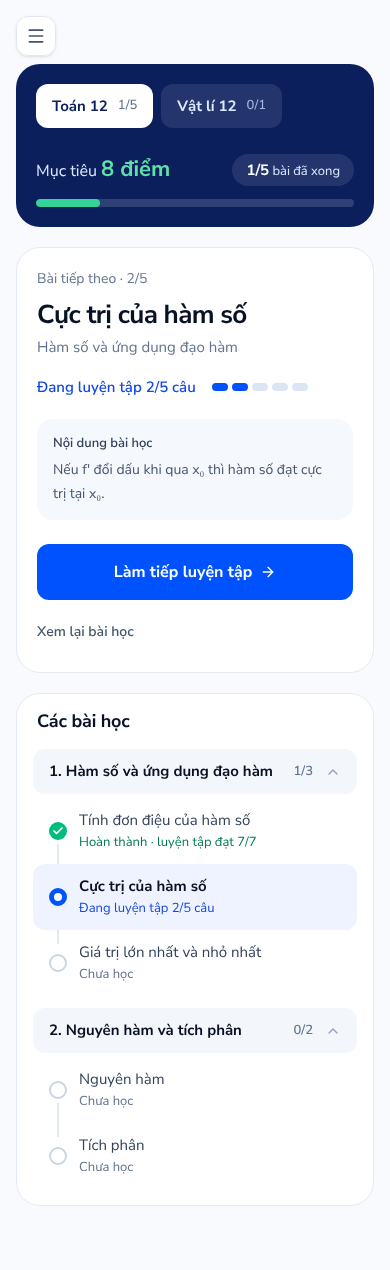
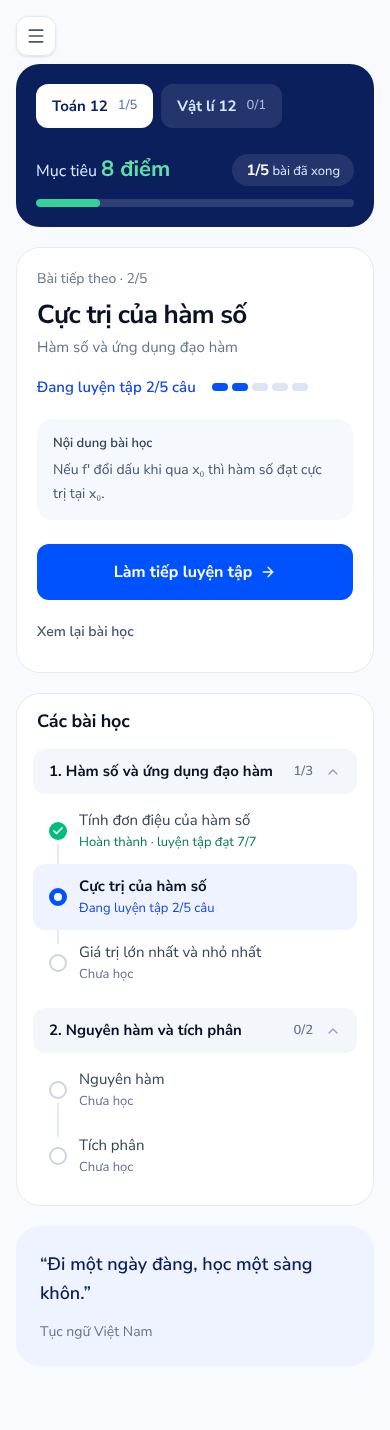
Roadmap: level columns and add a daily quote
The next-lesson column now ends level with the lesson list: a quote of
the day fills the rest of it. On phones the quote sits at the end.

Claude-Session: https://claude.ai/code/session_0183PJ8LAwyvZoofH1NCFUep

diff --git a/features/roadmap/components/student-roadmap.tsx b/features/roadmap/components/student-roadmap.tsx
@@ -112,11 +112,15 @@ export function StudentRoadmap({
           Chưa tải được kết quả luyện tập. Bước tiếp theo đang dựa trên phần em đã đọc.
         </p>
       )}
-      <div className="mt-5 grid items-start gap-5 lg:grid-cols-[minmax(0,1.1fr)_minmax(0,1fr)]">
-        <div className="lg:sticky lg:top-6">
+      {/* Side by side the two columns end level: the quote takes up what the lesson list leaves. */}
+      <div className="mt-5 grid gap-5 lg:grid-cols-[minmax(0,1.1fr)_minmax(0,1fr)] lg:grid-rows-[auto_1fr]">
+        <div className="lg:col-start-1 lg:row-start-1">
           <NextStepCard step={step} scope={scope} standings={standings} />
         </div>
-        <LessonList scope={scope} standings={standings} nextLessonId={step?.lesson.id ?? null} />
+        <div className="lg:col-start-2 lg:row-span-2 lg:row-start-1">
+          <LessonList scope={scope} standings={standings} nextLessonId={step?.lesson.id ?? null} />
+        </div>
+        <DailyQuote className="lg:col-start-1 lg:row-start-2" />
       </div>
     </Page>
   );
@@ -356,6 +360,48 @@ function statusTone(tone: string) {
 
 // ─── Every lesson ────────────────────────────────────────────────────────────
 
+const QUOTES = [
+  { text: 'Không có việc gì khó, chỉ sợ lòng không bền.', by: 'Hồ Chí Minh' },
+  { text: 'Có công mài sắt, có ngày nên kim.', by: 'Tục ngữ Việt Nam' },
+  {
+    text: 'Thiên tài là một phần trăm cảm hứng và chín mươi chín phần trăm mồ hôi.',
+    by: 'Thomas Edison',
+  },
+  { text: 'Học, học nữa, học mãi.', by: 'V. I. Lenin' },
+  { text: 'Đi một ngày đàng, học một sàng khôn.', by: 'Tục ngữ Việt Nam' },
+  {
+    text: 'Thành công không phải là điểm cuối, thất bại không phải là dấu chấm hết: điều quan trọng là can đảm để tiếp tục.',
+    by: 'Winston Churchill',
+  },
+];
+
+/** One quote a day, the same for everyone on that day in Vietnam. */
+function quoteOfTheDay() {
+  const day = new Intl.DateTimeFormat('en-CA', { timeZone: 'Asia/Ho_Chi_Minh' }).format(new Date());
+  const n = Math.floor(Date.parse(day) / 86_400_000);
+  return QUOTES[n % QUOTES.length];
+}
+
+function DailyQuote({ className = '' }: { className?: string }) {
+  const quote = quoteOfTheDay();
+  return (
+    <figure
+      className={`flex flex-col justify-center rounded-[24px] bg-[#EEF3FF] px-6 py-6 text-[#0A1F5C] sm:px-7 ${className}`}
+      data-testid="roadmap-quote"
+    >
+      <blockquote
+        className="text-[18px] font-semibold leading-relaxed sm:text-[20px]"
+        suppressHydrationWarning
+      >
+        “{quote.text}”
+      </blockquote>
+      <figcaption className="mt-3 text-[14px] text-slate-500" suppressHydrationWarning>
+        {quote.by}
+      </figcaption>
+    </figure>
+  );
+}
+
 function LessonList({
   scope,
   standings,
@@ -369,7 +415,7 @@ function LessonList({
   return (
     <section
       aria-labelledby="roadmap-map"
-      className="rounded-[24px] border border-[#E5EBF3] bg-white p-4 sm:p-6"
+      className="h-full rounded-[24px] border border-[#E5EBF3] bg-white p-4 sm:p-6"
     >
       <h2 id="roadmap-map" className="px-1 text-[18px] font-extrabold text-[#091224]">
         Các bài học

diff --git a/docs/reviews/roadmap-declutter/BAO-CAO.md b/docs/reviews/roadmap-declutter/BAO-CAO.md
@@ -6,9 +6,9 @@
 
 | | Trước | Sau |
 | --- | --- | --- |
-| Số chữ trên trang (học sinh đang luyện) | 309 | 128 |
+| Số chữ trên trang (học sinh đang luyện) | 309 | 140 |
 | Chiều cao trang 1440 × 900 | 1143 px (phải cuộn) | 900 px (vừa một màn hình) |
-| Chiều cao trang 390 × 844 | 1816 px | 1270 px |
+| Chiều cao trang 390 × 844 | 1816 px | 1430 px |
 | Vị trí nút "Làm tiếp luyện tập", 1440 | y = 800 | y = 503 |
 | Vị trí nút trên 390 | y = 962 (dưới mép) | y = 544 |
 
@@ -21,6 +21,12 @@ Làm theo bố cục mẫu: phần đầu xanh đậm có tab môn, "Mục tiêu
 Không lấy từ mẫu: hình sách và đồ thị 3D, câu cổ vũ in nghiêng, các icon trang trí. Trên điện thoại, trạng thái bài nằm dưới tên bài để tên không bị gãy dòng.
 
 Trên 1440 và 1280, cột trái là bài tiếp theo, cột phải là danh sách bài; trang vừa một màn hình.
+
+## Vòng 3: hai cột bằng nhau, thêm câu nói động lực
+
+- Trên máy tính, cột trái và cột phải kết thúc ngang nhau. Bên trái là thẻ bài tiếp theo, bên dưới là một ô câu nói, ô này giãn ra cho bằng chiều cao danh sách bài.
+- Ô câu nói đặt dưới thẻ bài tiếp theo, không đặt trên, để nút "Làm tiếp luyện tập" vẫn là thứ đầu tiên học sinh thấy. Trên điện thoại, ô này nằm cuối trang, sau danh sách bài.
+- Mỗi ngày một câu (theo giờ Việt Nam), lấy từ 6 câu: Hồ Chí Minh, Edison, Lenin, Churchill và tục ngữ Việt Nam. Ô nền xanh nhạt, chữ xanh đậm, không có icon hay dấu ngoặc lớn trang trí.
 
 ## Đã bỏ (vòng 1)
 
